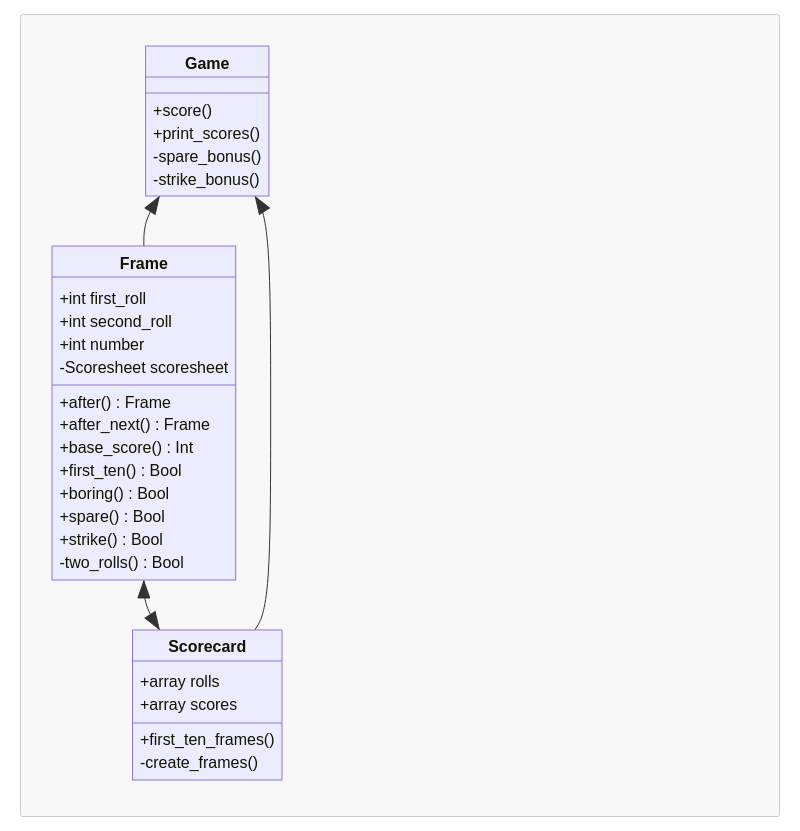
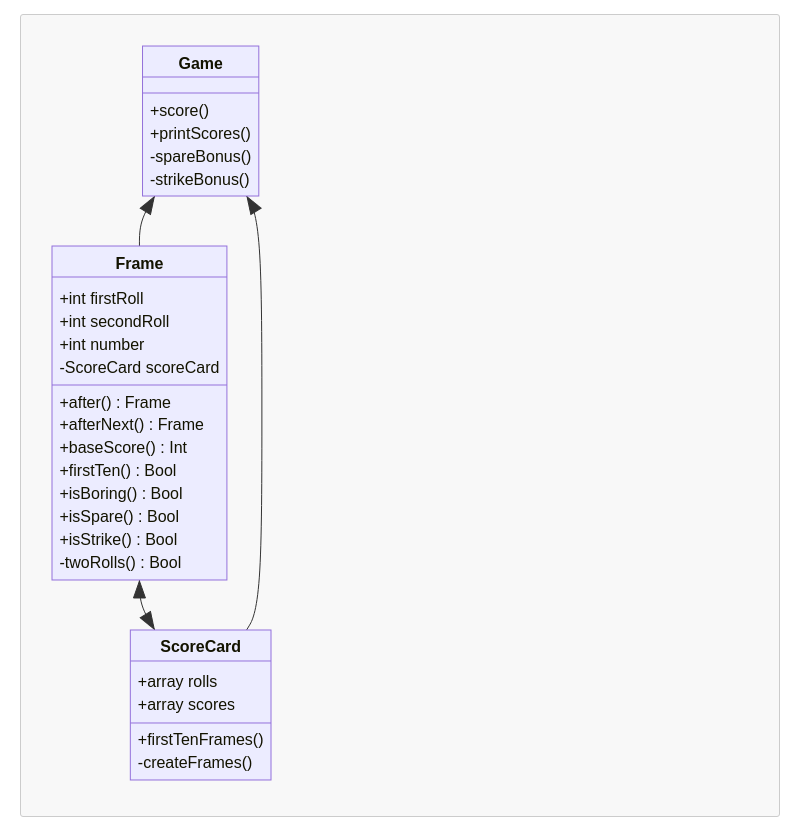
Updating class diagram to use camel case names

diff --git a/CLASSES.md b/CLASSES.md
@@ -1,38 +1,38 @@
 ```mermaid 
  classDiagram
       class Frame{
-          +int first_roll
-          +int second_roll
+          +int firstRoll
+          +int secondRoll
           +int number
-          -Scoresheet scoresheet
+          -ScoreCard scoreCard
           
           +after() Frame
-          +after_next() Frame
-          +base_score() Int
-          +first_ten() Bool
-          +boring() Bool
-          +spare() Bool
-          +strike() Bool
+          +afterNext() Frame
+          +baseScore() Int
+          +firstTen() Bool
+          +isBoring() Bool
+          +isSpare() Bool
+          +isStrike() Bool
 
-          -two_rolls() Bool
+          -twoRolls() Bool
       }
 
-      class Scorecard{
+      class ScoreCard{
           +array rolls
           +array scores
 
-          +first_ten_frames()
-          -create_frames()
+          +firstTenFrames()
+          -createFrames()
       }
 
       class Game{
         +score()
-        +print_scores()
-        -spare_bonus()
-        -strike_bonus()
+        +printScores()
+        -spareBonus()
+        -strikeBonus()
       }
 
-      Frame <|--|> Scorecard
+      Frame <|--|> ScoreCard
       Game <|-- Frame
-      Game <|-- Scorecard
+      Game <|-- ScoreCard
 ```
